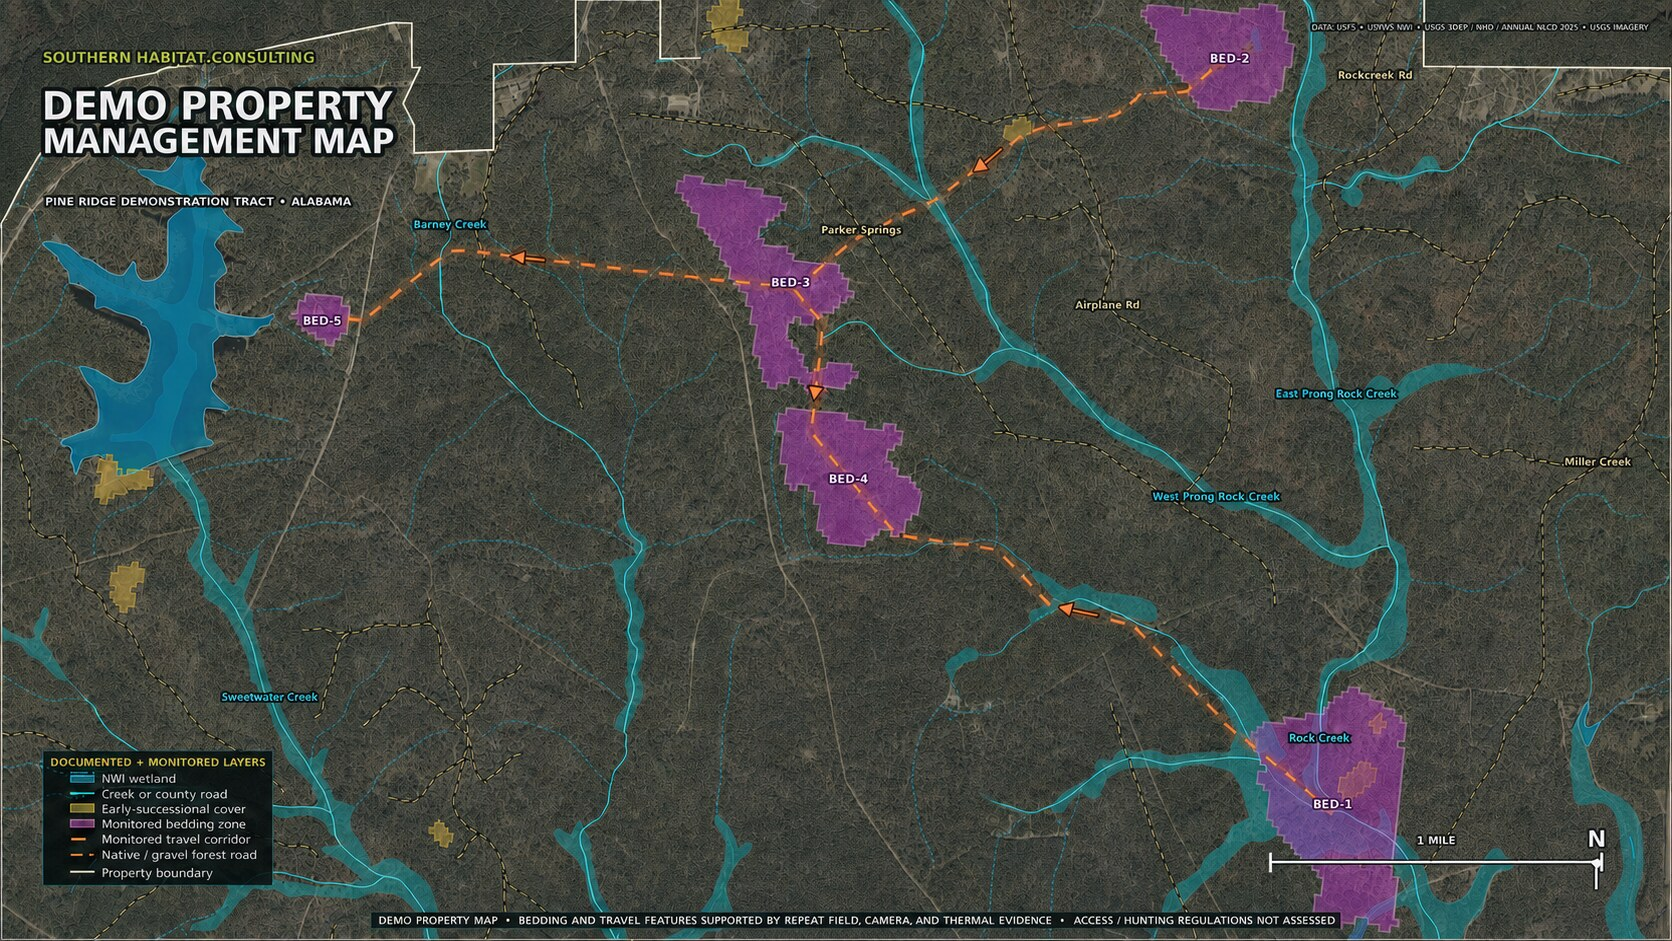
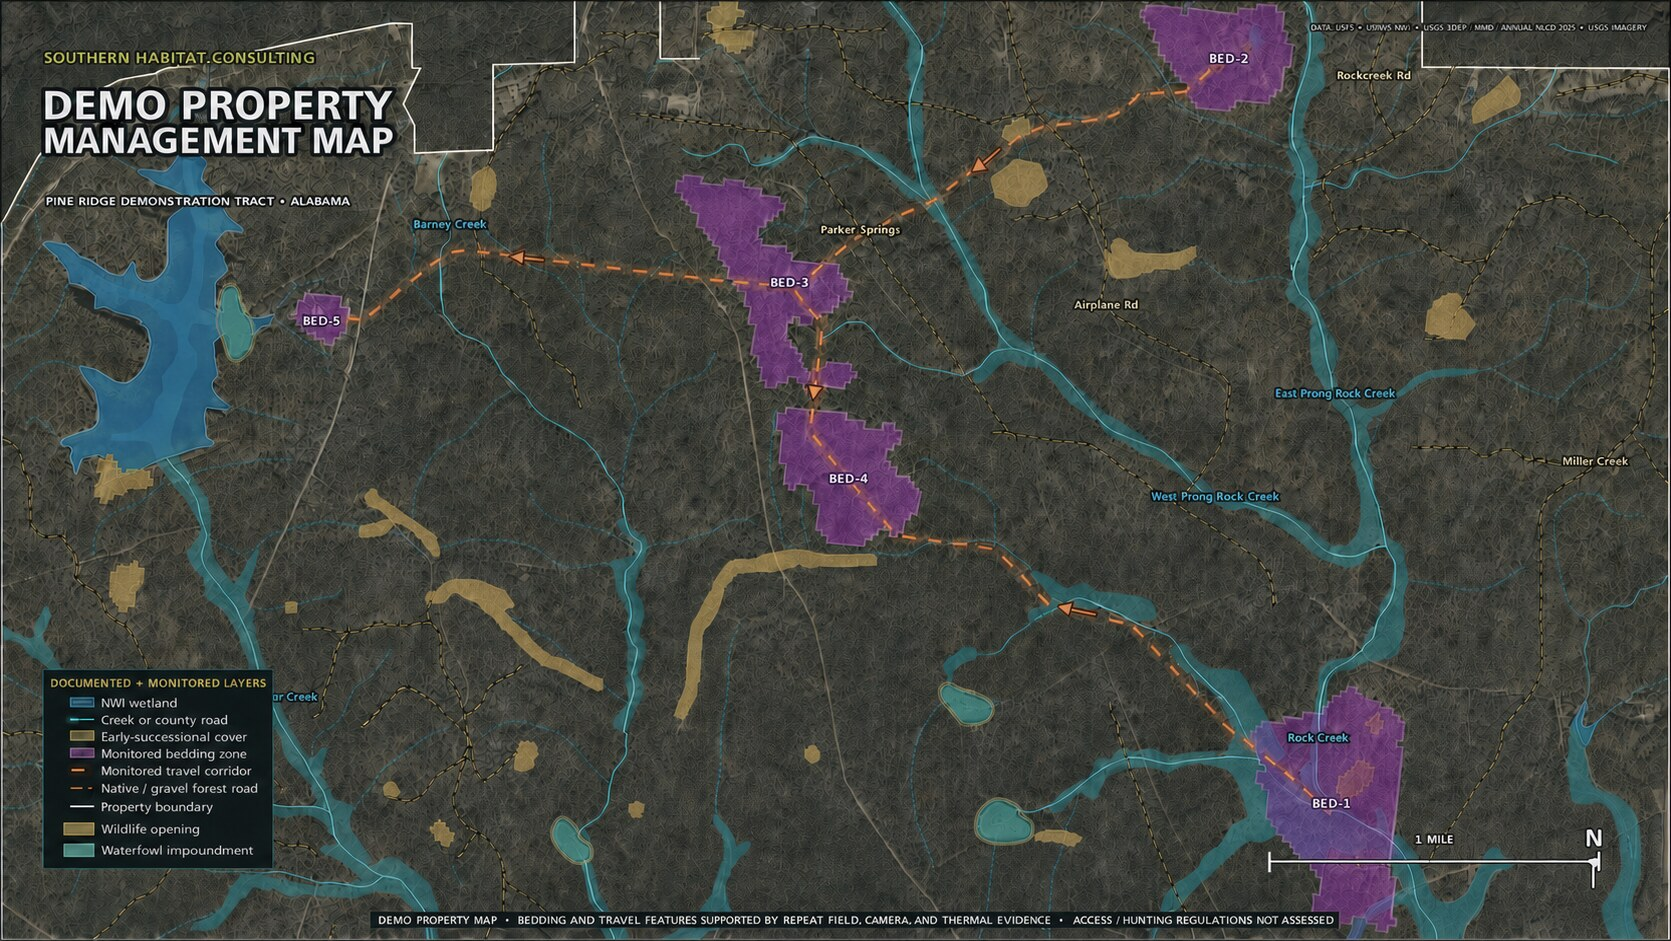
Add mapped wildlife openings and waterfowl impoundments

diff --git a/portal/demo/demo.js b/portal/demo/demo.js
@@ -6,12 +6,14 @@
     location: 'South Alabama',
     acres: 7645,
     habitats: [
-      { name: 'Pine / evergreen forest', acres: 6532, percent: 85.4, condition: 'Active management', color: '#5e7954', meaning: 'Dominant upland matrix; 1,258 acres have received thinning or selective midstory work and 1,274 acres now meet the open-pine understory standard.' },
-      { name: 'Woody wetland', acres: 558, percent: 7.3, condition: 'Protected', color: '#3e7882', meaning: 'Hydrologic and security cover; field-verified equipment exclusions and buffers are carried into each work order.' },
-      { name: 'Open / developed', acres: 324, percent: 4.2, condition: 'Managed access', color: '#b79a61', meaning: 'Rights-of-way and open ground; ten permanent openings and the primary access network are monitored here.' },
+      { name: 'Pine / evergreen forest', acres: 6502, percent: 85.0, condition: 'Active management', color: '#5e7954', meaning: 'Dominant upland matrix after establishment of 30 acres of permanent wildlife openings; 1,258 acres have received thinning or selective midstory work.' },
+      { name: 'Woody wetland', acres: 512, percent: 6.7, condition: 'Protected', color: '#3e7882', meaning: 'Remaining natural hydrologic and security cover outside the four managed waterfowl impoundments; equipment exclusions and buffers remain in effect.' },
+      { name: 'Open / developed', acres: 324, percent: 4.2, condition: 'Managed access', color: '#b79a61', meaning: 'Rights-of-way, facilities, and the primary access network are inspected and maintained separately from managed wildlife openings.' },
       { name: 'Open water', acres: 144, percent: 1.9, condition: 'Protect', color: '#3f88a4', meaning: 'Reservoir and pond surface; retain shoreline protection and stable crossings.' },
       { name: 'Shrub / grass / barren', acres: 52, percent: 0.7, condition: 'Retain and rotate', color: '#c6ae57', meaning: 'Original mapped young cover; treatment within adjacent pine now brings the rotating early-cover footprint to 302 acres.' },
-      { name: 'Mixed forest', acres: 35, percent: 0.5, condition: 'Retain diversity', color: '#726f4a', meaning: 'Potential mast and diversity component; retain quality hardwoods and soft mast.' }
+      { name: 'Mixed forest', acres: 35, percent: 0.5, condition: 'Retain diversity', color: '#726f4a', meaning: 'Potential mast and diversity component; retain quality hardwoods and soft mast.' },
+      { name: 'Wildlife openings', acres: 30, percent: 0.4, condition: 'Managed', color: '#a99345', meaning: 'Permanent openings distributed across the tract and maintained with planting, mowing, disking, or prescribed fire according to site objectives.' },
+      { name: 'Waterfowl impoundments', acres: 46, percent: 0.6, condition: 'Managed wetland', color: '#4f9a91', meaning: 'Four managed shallow-water units with seasonal drawdown, moist-soil vegetation, and protected levee and water-control access.' }
     ],
     overlays: [
       ['NWI non-riverine wetland', '472 acres', '6.2%', 'Documented planning constraint; overlaps the land-cover classes.'],
@@ -28,7 +30,8 @@
       ['2025', 'Thinning, early cover, and openings', '762 acres', 'Complete', '612 acres thinned, 132 acres of young cover established, and 18 acres of permanent openings completed'],
       ['2026', 'Winter thermal drone survey', '2,690 sampled acres', 'Complete', 'Second standardized survey completed across 13 flight blocks'],
       ['2026', 'Prescribed fire', '924 acres', 'Complete', 'Seven units completed; unburned pockets retained in each treatment block'],
-      ['2026', 'Thinning, early cover, and openings', '333 acres to date', 'Active', '260 acres thinned, 61 acres of young cover treated, and 12 acres of openings completed through July']
+      ['2026', 'Thinning, early cover, and openings', '333 acres to date', 'Active', '260 acres thinned, 61 acres of young cover treated, and 12 acres of openings completed through July'],
+      ['2026', 'Waterfowl impoundment program', '46 acres / 4 units', 'Complete', 'Levees, water-control structures, seasonal drawdown zones, and monitoring points established']
     ],
     years: [
       [2024, 'Complete', '612 ac', '386 ac', '78 ac', 'Established the field baseline, monitoring stations, and first treatment blocks.'],
@@ -107,8 +110,8 @@
   function managementMap(compact) {
     return '<figure class="actual-map ' + (compact ? 'compact' : '') + '">' +
       '<div class="map-toolbar"><div><strong>Demo Property Management Map</strong><span>Verified resources, habitat features, and management priorities</span></div><div class="map-actions"><a class="btn ghost" href="' + mapPath + '" target="_blank" rel="noopener">Open full map</a><a class="btn" href="' + mapPath + '" download>Download PNG</a></div></div>' +
-      '<div class="map-frame"><img src="' + mapPath + '" alt="Pine Ridge demo property map showing wetlands, early cover, five monitored bedding zones, four travel corridors, roads, creeks, and the property boundary"></div>' +
-      '<figcaption>Layers shown: property boundary, NWI wetlands, creeks, early-successional cover, field-supported bedding zones BED-1 through BED-5, four monitored travel corridors, and native or gravel roads.</figcaption>' +
+      '<div class="map-frame"><img src="' + mapPath + '" alt="Pine Ridge demo property map showing wildlife openings, four waterfowl impoundments, wetlands, bedding zones, travel corridors, roads, creeks, and the property boundary"></div>' +
+      '<figcaption>Layers shown: property boundary, NWI wetlands, creeks, wildlife openings, four waterfowl impoundments, early-successional cover, field-supported bedding zones BED-1 through BED-5, four monitored travel corridors, and native or gravel roads.</figcaption>' +
     '</figure>';
   }
 
@@ -240,7 +243,7 @@
       heading('Reports & Files', 'Published property documents, current monitoring exports, and wildlife harvest records') +
       '<div class="report-grid">' +
         '<article class="report"><span class="type">BASELINE MANAGEMENT PLAN</span><h3>Original Five-Year Property Management Prescription</h3><div class="meta">Program Year 1 · 6 pages · PDF</div><p>The original condition assessment, acreage targets, treatment sequence, monitoring thresholds, and operating limitations used to launch the program.</p><a class="btn" href="' + planPath + '" target="_blank" rel="noopener">Open PDF</a> <a class="btn ghost" href="' + planPath + '" download>Download</a></article>' +
-        '<article class="report"><span class="type">PROPERTY MAP</span><h3>Demo Property Management Map</h3><div class="meta">Updated July 2026 · PNG</div><p>Property boundary, wetlands, creeks, roads, early cover, five bedding zones, and four monitored travel corridors.</p><a class="btn" href="' + mapPath + '" target="_blank" rel="noopener">Open map</a> <a class="btn ghost" href="' + mapPath + '" download>Download</a></article>' +
+        '<article class="report"><span class="type">PROPERTY MAP</span><h3>Demo Property Management Map</h3><div class="meta">Updated July 2026 · JPEG</div><p>Property boundary, wildlife openings, four waterfowl impoundments, wetlands, creeks, roads, early cover, five bedding zones, and four monitored travel corridors.</p><a class="btn" href="' + mapPath + '" target="_blank" rel="noopener">Open map</a> <a class="btn ghost" href="' + mapPath + '" download>Download</a></article>' +
         '<article class="report"><span class="type">THERMAL DRONE SURVEY</span><h3>Winter Deer Survey Results</h3><div class="meta">2025 and 2026 · 2 survey records · CSV</div><p>Sampling coverage, unique detections, population estimates, confidence intervals, density, sex ratio, and recruitment.</p><a class="btn" href="' + thermalDataPath + '" download>Download CSV</a></article>' +
         '<article class="report"><span class="type">DEER HARVEST</span><h3>Two-Year Deer Harvest Log</h3><div class="meta">2024–25 and 2025–26 · 153 records · CSV</div><p>Harvest date, sex, age, age method, whole weight, kidney and fat weights, calculated KFI, antler points, and management unit.</p><a class="btn" href="' + deerDataPath + '" download>Download CSV</a></article>' +
         '<article class="report"><span class="type">TURKEY HARVEST</span><h3>Pre/Post Turkey Harvest Log</h3><div class="meta">Spring 2024–2026 · 18 records · CSV</div><p>Pre-management baseline and two post-management seasons with age class, whole weight, beard, spurs, and management unit.</p><a class="btn" href="' + turkeyDataPath + '" download>Download CSV</a></article>' +